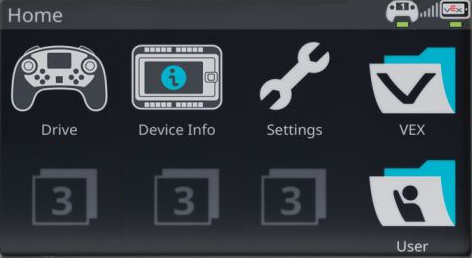
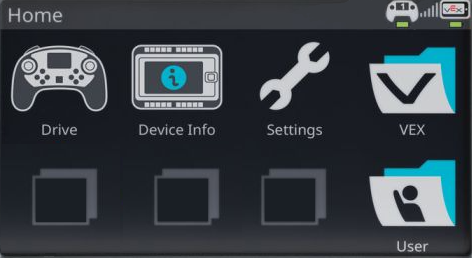
Allow up to 16 programs to be selected

Changed region(s): [[0.592, 0.7132, 0.6512, 0.8372], [0.3552, 0.7132, 0.4144, 0.8372], [0.0888, 0.7132, 0.148, 0.8372]]

diff --git a/vexbrain.py b/vexbrain.py
@@ -139,11 +139,21 @@ class Brain(object):
         self.BrainProgramImage = self.BrainProgramImage.convert_alpha()
         self.BrainProgramImage = RemoveColorRange(self.BrainProgramImage, 250, 255)
         #Scale it to be 40%
+        self.ProgramIconSmall = pygame.image.load('data/images/programlogo.png')
+        self.ProgramIconSmall = self.ProgramIconSmall.convert_alpha()
+        self.ProgramIconSmall = RemoveColorRange(self.ProgramIconSmall, 250, 255)
+        self.ProgramIconSmall = pygame.transform.scale(self.ProgramIconSmall, (51, 51))
+
         self.BrainProgramImage = pygame.transform.scale(self.BrainProgramImage, (int(self.BrainProgramImage.get_width() * 0.30), int(self.BrainProgramImage.get_height() * 0.30)))
 
         self.BrainDeviceScreen = pygame.image.load('data/images/deviceinfoscreen.png')
         self.BrainDeviceScreen = pygame.transform.scale(self.BrainDeviceScreen, (int(self.BrainDeviceScreen.get_width() * 1.62), 
                                                                                  int(self.BrainDeviceScreen.get_height() * 1.6)))
+
+        self.BrainUserFolderScreen = pygame.image.load('data/images/userfolder.png')
+        self.BrainUserFolderScreen = pygame.transform.scale(self.BrainUserFolderScreen, (int(self.BrainUserFolderScreen.get_width() * 1.62), 
+                                                                                         int(self.BrainUserFolderScreen.get_height() * 1.6)))
+        self.EmptyProgramIcon = pygame.image.load('data/images/programslot.png')
 
         self.ProgramButtonSize = self.BrainProgramImage.get_size()
         self.ProgramLocations  = [(25, 170), (150, 170), (265, 170)]
@@ -160,14 +170,15 @@ class Brain(object):
                        win32gui.GetWindowLong(self.hwnd, win32con.GWL_EXSTYLE) | win32con.WS_EX_LAYERED)
         win32gui.SetLayeredWindowAttributes(self.hwnd, win32api.RGB(255, 0, 128), 0, win32con.LWA_COLORKEY)
 
-        self.makingSelection = False
-        self.selectionStart  = None
-        self.selectionStop   = None
+        self.makingSelection  = False
+        self.selectionStart   = None
+        self.selectionStop    = None
         self.canMakeSelection = False
 
-        self.onHomeScreen    = True
-        self.onDeviceScreen  = False
-        self.onProgramScreen = False
+        self.onHomeScreen          = True
+        self.onDeviceScreen        = False
+        self.onProgramScreen       = False
+        self.onProgramFolderScreen = False
 
         self.powerButtonRect = pygame.Rect((582, 217), (60, 60))
         self.topBar = pygame.Rect((10, 0), (648, 60))
@@ -176,7 +187,8 @@ class Brain(object):
 
         self.controllerServer = None
 
-        self.DeviceInfoButton = pygame.Rect((129, 43), (100, 100))
+        self.DeviceInfoButton    = pygame.Rect((129, 43),  (100, 100))
+        self.UserProgramsButton  = pygame.Rect((375, 167), (100, 100))
 
         self.buttonCooldown   = 180
 
@@ -186,6 +198,9 @@ class Brain(object):
         if self.DeviceInfoButton.collidepoint(self.BrainScreen._getRelativeMouseLocation()) and pygame.mouse.get_pressed()[0]:
             self.onHomeScreen   = False
             self.onDeviceScreen = True
+        elif self.UserProgramsButton.collidepoint(self.BrainScreen._getRelativeMouseLocation()) and pygame.mouse.get_pressed()[0]:
+            self.onHomeScreen          = False
+            self.onProgramFolderScreen = True
 
         #Draw the program selector buttons
         for location, program in zip(self.ProgramLocations, self.ProgramsLoaded):
@@ -206,6 +221,46 @@ class Brain(object):
 
     def runDeviceScreen(self):
         self.BrainScreen.frame.blit(self.BrainDeviceScreen, (0, 0))
+    
+    def runUserProgramScreen(self):
+        self.BrainScreen.frame.blit(self.BrainUserFolderScreen, (0, 0))
+        #Create the empty program buttons
+        ButtonsPerRow = self.BrainScreen.size[0] // (self.EmptyProgramIcon.get_width() + 35)
+        AmountOFRows  = 3
+
+        for row in range(AmountOFRows):
+            for button in range(ButtonsPerRow):
+                self.BrainScreen.frame.blit(self.EmptyProgramIcon, ((button * (self.EmptyProgramIcon.get_width() + 35)) + 20, 
+                                                                    (row * (self.EmptyProgramIcon.get_height() + 35)) + self.BrainScreen.yOffsetPixels + 20))
+
+        CurrentButton = 0
+        CurrentRow    = 0
+
+        for program in self.ProgramsLoaded:
+            location = ((CurrentButton * (self.EmptyProgramIcon.get_width() + 35)) + 20, 
+                        (CurrentRow * (self.EmptyProgramIcon.get_height() + 35)) + self.BrainScreen.yOffsetPixels + 20)
+            #Draw a self.ProgramImage under the button
+            self.BrainScreen.frame.blit(self.ProgramIconSmall, location)
+            #Draw program.name under the logo
+            if len(program.name) > 10: text = self.font.render(f'{program.name[:10]}...', True, (255, 255, 255))
+            else: text = self.font.render(program.name, True, (255, 255, 255))
+            self.BrainScreen.frame.blit(text, (location[0], location[1]+55))
+
+            if CurrentButton > ButtonsPerRow - 1:
+                CurrentRow += 1
+                CurrentButton = 0
+            else:
+                CurrentButton += 1
+            Rect = pygame.Rect(location[0], location[1], 51, 51)
+            pygame.draw.rect(self.BrainScreen.frame, (255, 255, 255), Rect, 1)
+            if Rect.collidepoint(self.BrainScreen._getRelativeMouseLocation()) and pygame.mouse.get_pressed()[0]:
+                self.onProgramFolderScreen       = False
+                self.BrainScreen._drawProgramBar = True
+                self.BrainScreen.clear_screen()
+                self.onProgramScreen = True
+                self.CodeEnviorment  = program.loadContainer(self, self.controllerServer)
+                self.CodeEnviorment.threadedExecute()
+        
     
     def selectionTick(self):
             if pygame.mouse.get_pressed()[0] and not self.makingSelection:
@@ -236,7 +291,8 @@ class Brain(object):
         if CheckCollision(self.powerButtonRect) and self.buttonCooldown <= 0:
             self.buttonCooldown = 180
             if self.onHomeScreen: pygame.quit(); quit()
-            elif self.onDeviceScreen: self.onHomeScreen  = True; self.onDeviceScreen   = False
+            elif self.onDeviceScreen: self.onHomeScreen        = True; self.onDeviceScreen        = False
+            elif self.onProgramFolderScreen: self.onHomeScreen = True; self.onProgramFolderScreen = False
             elif self.onProgramScreen: 
                 self.onHomeScreen = True; self.onProgramScreen = False; self.BrainScreen._drawProgramBar = False
                 print('[VexEmulator(Brain)] Attempting to teardown container...')
@@ -251,6 +307,7 @@ class Brain(object):
         self.window.blit(self.BrainFrameImage, (0, 0))
         if self.onHomeScreen: self.runHomeScreen()
         elif self.onDeviceScreen: self.runDeviceScreen()
+        elif self.onProgramFolderScreen: self.runUserProgramScreen()
         
         #Draw a selection box if the mouse is pressed
         if self.canMakeSelection: self.selectionTick()
